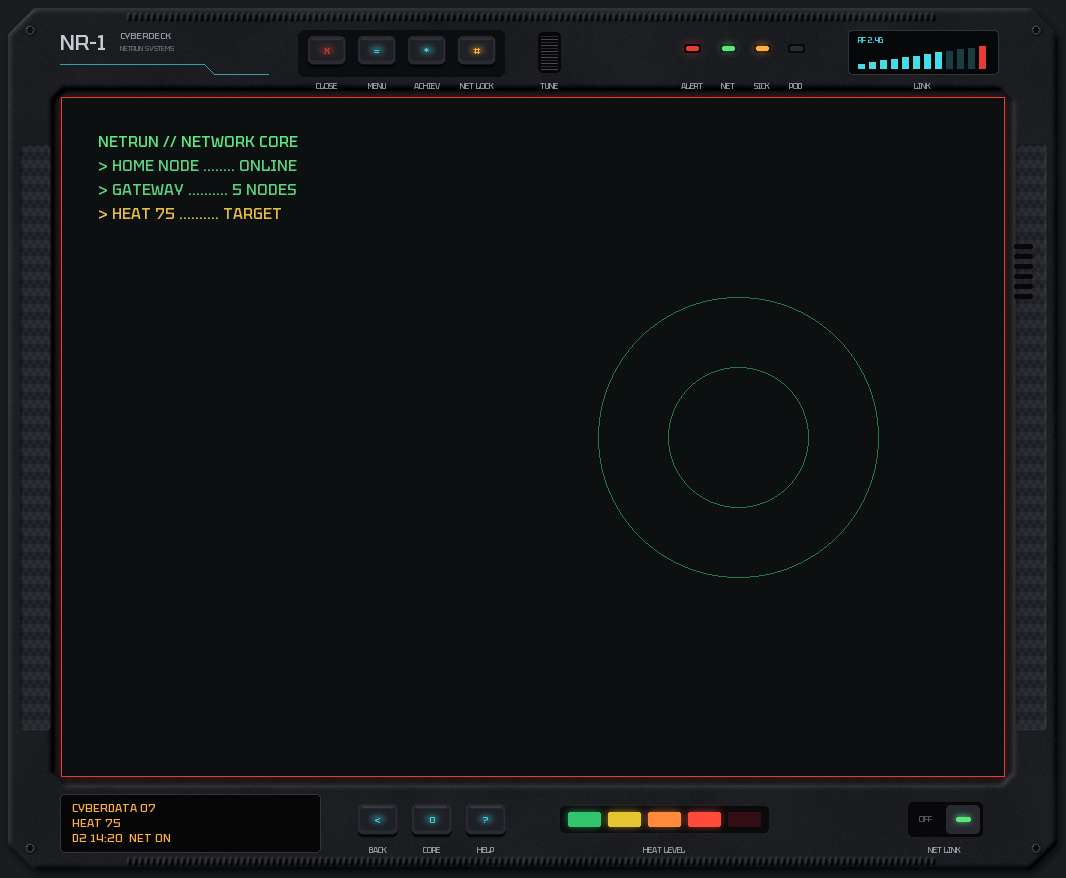
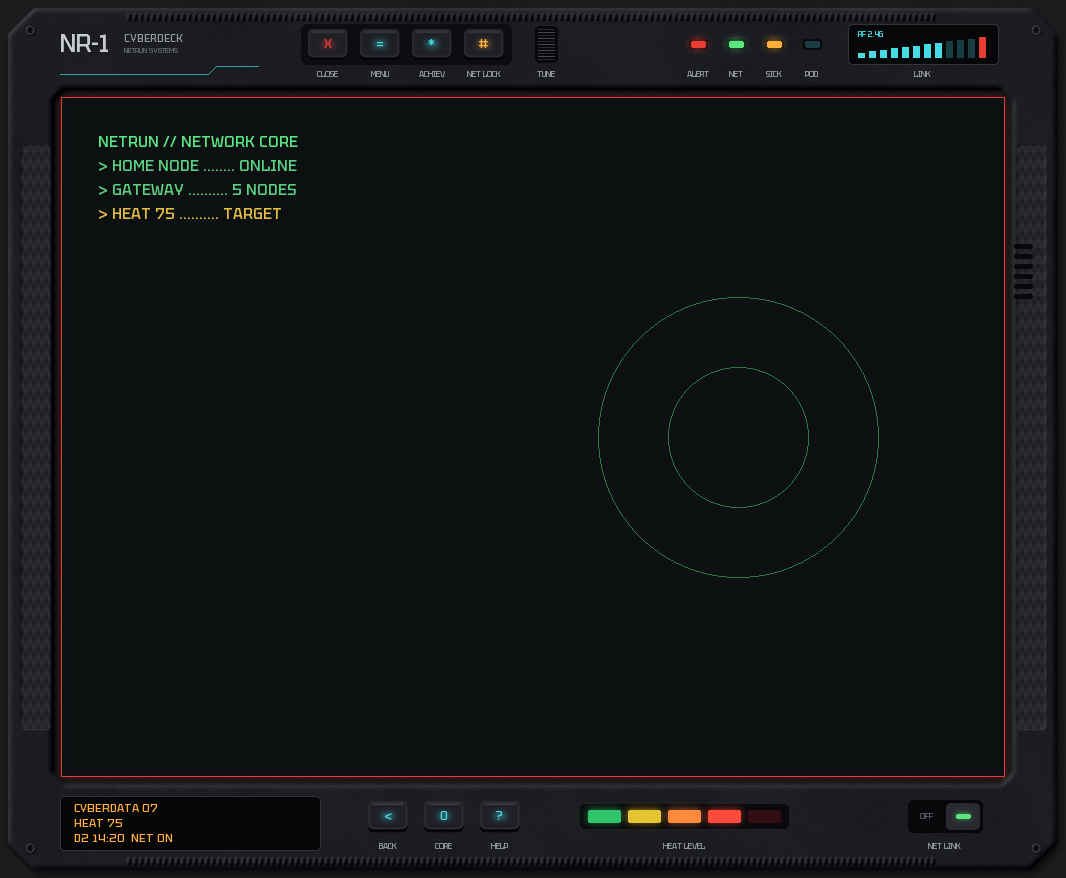
Cyberdeck mockup: controls and captions on shared lines, LCD text centred

diff --git a/tools/gen_deck_classic.py b/tools/gen_deck_classic.py
@@ -109,94 +109,92 @@ def cyber(heat):
     for i in range(6):
         y = SY0 + 140 + i * 10
         d.rounded_rectangle([BX1 - 44, y, BX1 - 26, y + 4], 2, fill=(8, 8, 10))
-    f7, f8, f9, f11 = A.font(7), A.font(8), A.font(9), A.font(11)
+    f7, f8, f12 = A.font(7), A.font(8), A.font(12)
 
     def label(x, y, t, col=(150, 156, 166), f=f8):
         d.text((x, y), t, font=f, fill=col + (255,), anchor="mm")
 
-    def chiclet(x, y, w, h, legend, col):
+    def chiclet(cx, cy, w, h, legend, col):
+        """A low chiclet key centred on (cx, cy) with a glowing legend."""
+        x, y = round(cx - w / 2), round(cy - h / 2)
         k = S.Big(w + 4, h + 6)
         k.rect((2, 4, w + 1, h + 4), (6, 6, 8, 255), r=5)
         k.rect((2, 1, w + 1, h + 1), (40, 42, 48, 255), r=5)
-        k.rect((4, 3, w - 1, h - 3), (30, 32, 37, 255), r=4)
+        k.rect((4, 3, w - 1, h - 1), (30, 32, 37, 255), r=4)
         k.rect((6, 3, w - 3, 5), (70, 72, 80, 160), r=1)
-        A.over(img, k.done(), (x - 2, y - 1))
-        A.glow(img, (x + w / 2 - 6, y + h / 2 - 3, x + w / 2 + 6, y + h / 2 + 3), col, 0.3, 3)
-        d.text((x + w / 2, y + h / 2 + 1), legend, font=f9, fill=col + (255,), anchor="mm")
+        A.over(img, k.done(), (x - 2, y - 2))
+        A.glow(img, (cx - 6, cy - 3, cx + 6, cy + 3), col, 0.3, 3)
+        d.text((cx, cy), legend, font=f12, fill=col + (255,), anchor="mm")
 
-    # ---- top
-    ty = BY0 + 30
-    d.text((BX0 + 52, BY0 + 34), "NR-1", font=A.font(22), fill=(200, 204, 210, 255), anchor="lm")
-    d.text((BX0 + 112, BY0 + 28), "CYBERDECK", font=f9, fill=(150, 156, 166, 255), anchor="lm")
-    d.text((BX0 + 112, BY0 + 41), "NETRUN SYSTEMS", font=f7, fill=(100, 106, 116, 255), anchor="lm")
-    d.line([(BX0 + 52, BY0 + 56), (BX0 + 196, BY0 + 56)], fill=(54, 160, 170, 255), width=1)
-    d.line([(BX0 + 196, BY0 + 56), (BX0 + 206, BY0 + 66), (BX0 + 260, BY0 + 66)], fill=(54, 160, 170, 255), width=1)
-    x = BX0 + 300
-    d.rounded_rectangle([x - 10, ty - 8, x + 4 * 50 - 4, ty + 38], 6, fill=(12, 13, 16, 255))
+    # ---- top: everything centred on one line (cy), every caption on another (ly)
+    cy, ly = BY0 + 36, BY0 + 66
+    d.text((BX0 + 52, cy), "NR-1", font=A.font(24), fill=(200, 204, 210, 255), anchor="lm")
+    d.text((BX0 + 116, cy - 6), "CYBERDECK", font=A.font(10), fill=(150, 156, 166, 255), anchor="lm")
+    d.text((BX0 + 116, cy + 7), "NETRUN SYSTEMS", font=f7, fill=(100, 106, 116, 255), anchor="lm")
+    d.line([(BX0 + 52, ly), (BX0 + 200, ly), (BX0 + 208, ly - 8), (BX0 + 250, ly - 8)], fill=(54, 160, 170, 255), width=1)
+    x = BX0 + 320          # key centres
+    d.rounded_rectangle([x - 27, cy - 20, x + 3 * 52 + 27, cy + 20], 6, fill=(12, 13, 16, 255))
     for i, (lg, nm, col) in enumerate((("X", "CLOSE", RED), ("=", "MENU", CYAN), ("*", "ACHIEV", CYAN), ("#", "NET LOCK", AMBER))):
-        chiclet(x + i * 50, ty - 2, 38, 28, lg, col)
-        label(x + i * 50 + 19, ty + 48, nm)
+        chiclet(x + i * 52, cy, 40, 28, lg, col)
+        label(x + i * 52, ly, nm)
     # tuner: a knurled thumb wheel in a slot
-    tx = x + 4 * 50 + 30
-    d.rounded_rectangle([tx, ty - 6, tx + 22, ty + 34], 4, fill=(8, 8, 10, 255))
-    for k in range(12):
-        yk = ty - 2 + k * 3
-        d.line([(tx + 3, yk), (tx + 19, yk)], fill=(70, 72, 80, 255) if k % 2 else (40, 42, 46, 255), width=1)
-    label(tx + 11, ty + 48, "TUNE")
-    # lamps: light pipes in a strip
-    lx = BX1 - 330
-    for i, (nm, col, on) in enumerate((("NET", (90, 230, 120), True), ("SICK", AMBER, True), ("POD", CYAN, False))):
-        cx = lx + i * 34
-        d.rounded_rectangle([cx - 8, ty + 6, cx + 8, ty + 14], 2, fill=(10, 10, 12, 255))
+    tx = x + 3 * 52 + 62
+    d.rounded_rectangle([tx - 11, cy - 18, tx + 11, cy + 18], 4, fill=(8, 8, 10, 255))
+    for k in range(11):
+        yk = cy - 15 + k * 3
+        d.line([(tx - 8, yk), (tx + 8, yk)], fill=(70, 72, 80, 255) if k % 2 else (40, 42, 46, 255), width=1)
+    label(tx, ly, "TUNE")
+    # lamps: light pipes in a strip, ALERT first (lit from Target)
+    lx = BX1 - 360
+    for i, (nm, col, on) in enumerate((("ALERT", RED, lvl >= 3), ("NET", (90, 230, 120), True), ("SICK", AMBER, True), ("POD", CYAN, False))):
+        c0 = lx + i * 38
+        d.rounded_rectangle([c0 - 9, cy - 5, c0 + 9, cy + 5], 2, fill=(10, 10, 12, 255))
         if on:
-            A.glow(img, (cx - 6, ty + 8, cx + 6, ty + 12), col, 0.6, 4)
-        d.rounded_rectangle([cx - 6, ty + 8, cx + 6, ty + 12], 1, fill=(col if on else (40, 44, 50)) + (255,))
-        label(cx, ty + 48, nm)
-    # alarm light pipe that lights from Target
-    if lvl >= 3:
-        A.glow(img, (lx - 42, ty + 8, lx - 30, ty + 12), RED, 0.8, 5)
-    d.rounded_rectangle([lx - 44, ty + 6, lx - 28, ty + 14], 2, fill=(10, 10, 12, 255))
-    d.rounded_rectangle([lx - 42, ty + 8, lx - 30, ty + 12], 1, fill=(RED if lvl >= 3 else (50, 30, 30)) + (255,))
-    label(lx - 36, ty + 48, "ALERT")
+            A.glow(img, (c0 - 7, cy - 3, c0 + 7, cy + 3), col, 0.7 if nm == "ALERT" else 0.6, 4)
+        d.rounded_rectangle([c0 - 7, cy - 3, c0 + 7, cy + 3], 1, fill=col + (255,) if on else dim(col))
+        label(c0, ly, nm)
     # RF on an OLED
     rx = BX1 - 210
-    d.rounded_rectangle([rx, ty - 8, rx + 150, ty + 36], 4, fill=(6, 7, 8, 255), outline=(50, 52, 58, 255))
-    d.text((rx + 10, ty + 2), "RF 2.4G", font=f8, fill=CYAN + (255,), anchor="lm")
+    d.rounded_rectangle([rx, cy - 20, rx + 150, cy + 20], 4, fill=(6, 7, 8, 255), outline=(50, 52, 58, 255))
+    d.text((rx + 10, cy - 10), "RF 2.4G", font=f8, fill=CYAN + (255,), anchor="lm")
     for i in range(12):
-        h = 4 + i * 1.6
+        h = 4 + i * 1.4
         on = i < 8 or (lvl >= 3 and i == 11)
         cc = RED if i == 11 and lvl >= 3 else CYAN
-        d.rectangle([rx + 10 + i * 11, ty + 30 - h, rx + 16 + i * 11, ty + 30], fill=cc + (255,) if on else dim(cc))
-    label(rx + 75, ty + 48, "LINK")
+        d.rectangle([rx + 10 + i * 11, cy + 13 - h, rx + 16 + i * 11, cy + 13], fill=cc + (255,) if on else dim(cc))
+    label(rx + 75, ly, "LINK")
 
-    # ---- bottom
-    yb = SY1 + 30
-    d.rounded_rectangle([BX0 + 52, yb - 6, BX0 + 312, yb + 52], 5, fill=(6, 6, 7, 255), outline=(50, 52, 58, 255))
-    for i, t in enumerate(("CYBERDATA 07", f"HEAT {heat}", "D2 14:20  NET ON")):
-        d.text((BX0 + 64, yb + 4 + i * 15), t, font=A.font(11), fill=AMBER + (255,), anchor="lt")
-    kx = BX0 + 350
+    # ---- bottom: the same, centres on cb and captions on lb
+    cb, lb = SY1 + 46, SY1 + 76
+    lcd = (BX0 + 52, SY1 + 26, BX0 + 312, SY1 + 80)
+    d.rounded_rectangle(lcd, 5, fill=(6, 6, 7, 255), outline=(50, 52, 58, 255))
+    lines = ("CYBERDATA 07", f"HEAT {heat}", "D2 14:20  NET ON")
+    mid = (lcd[1] + lcd[3]) / 2
+    for i, t in enumerate(lines):
+        d.text((lcd[0] + 14, mid + (i - 1) * 15), t, font=A.font(11), fill=AMBER + (255,), anchor="lm")
+    kx = BX0 + 380
     for i, (lg, nm) in enumerate((("<", "BACK"), ("O", "CORE"), ("?", "HELP"))):
-        chiclet(kx + i * 54, yb + 4, 40, 30, lg, CYAN)
-        label(kx + i * 54 + 20, yb + 50, nm)
+        chiclet(kx + i * 56, cb, 40, 28, lg, CYAN)
+        label(kx + i * 56, lb, nm)
     # Heat: five light-pipe segments
-    hx = BX0 + 560
-    d.rounded_rectangle([hx - 8, yb + 6, hx + 5 * 40, yb + 32], 4, fill=(10, 10, 12, 255))
+    hx = BX0 + 580
+    d.rounded_rectangle([hx - 8, cb - 12, hx + 5 * 40, cb + 12], 4, fill=(10, 10, 12, 255))
     for i in range(5):
         cc = HEAT_SEG[i]
         on = i <= lvl
-        r = (hx + i * 40, yb + 12, hx + i * 40 + 32, yb + 26)
+        r = (hx + i * 40, cb - 6, hx + i * 40 + 32, cb + 6)
         if on:
             A.glow(img, r, cc, 0.45, 4)
         d.rounded_rectangle(r, 2, fill=cc + (255,) if on else dim(cc))
-    label(hx + 96, yb + 50, "HEAT LEVEL")
+    label(hx + 96, lb, "HEAT LEVEL")
     # NET LINK: a rocker
     sx = BX1 - 150
-    d.rounded_rectangle([sx, yb + 2, sx + 74, yb + 36], 5, fill=(8, 8, 10, 255))
-    d.rounded_rectangle([sx + 38, yb + 5, sx + 71, yb + 33], 4, fill=(40, 42, 48, 255))
-    A.glow(img, (sx + 48, yb + 16, sx + 62, yb + 22), (90, 230, 120), 0.5, 3)
-    d.rounded_rectangle([sx + 48, yb + 17, sx + 62, yb + 21], 1, fill=(90, 230, 120, 255))
-    d.text((sx + 18, yb + 19), "OFF", font=f8, fill=(90, 94, 104, 255), anchor="mm")
-    label(sx + 37, yb + 50, "NET LINK")
+    d.rounded_rectangle([sx, cb - 16, sx + 74, cb + 16], 5, fill=(8, 8, 10, 255))
+    d.rounded_rectangle([sx + 38, cb - 13, sx + 71, cb + 13], 4, fill=(40, 42, 48, 255))
+    A.glow(img, (sx + 48, cb - 2, sx + 62, cb + 2), (90, 230, 120), 0.5, 3)
+    d.rounded_rectangle([sx + 48, cb - 2, sx + 62, cb + 2], 1, fill=(90, 230, 120, 255))
+    d.text((sx + 19, cb), "OFF", font=f8, fill=(90, 94, 104, 255), anchor="mm")
+    label(sx + 37, lb, "NET LINK")
     return img
 
 
